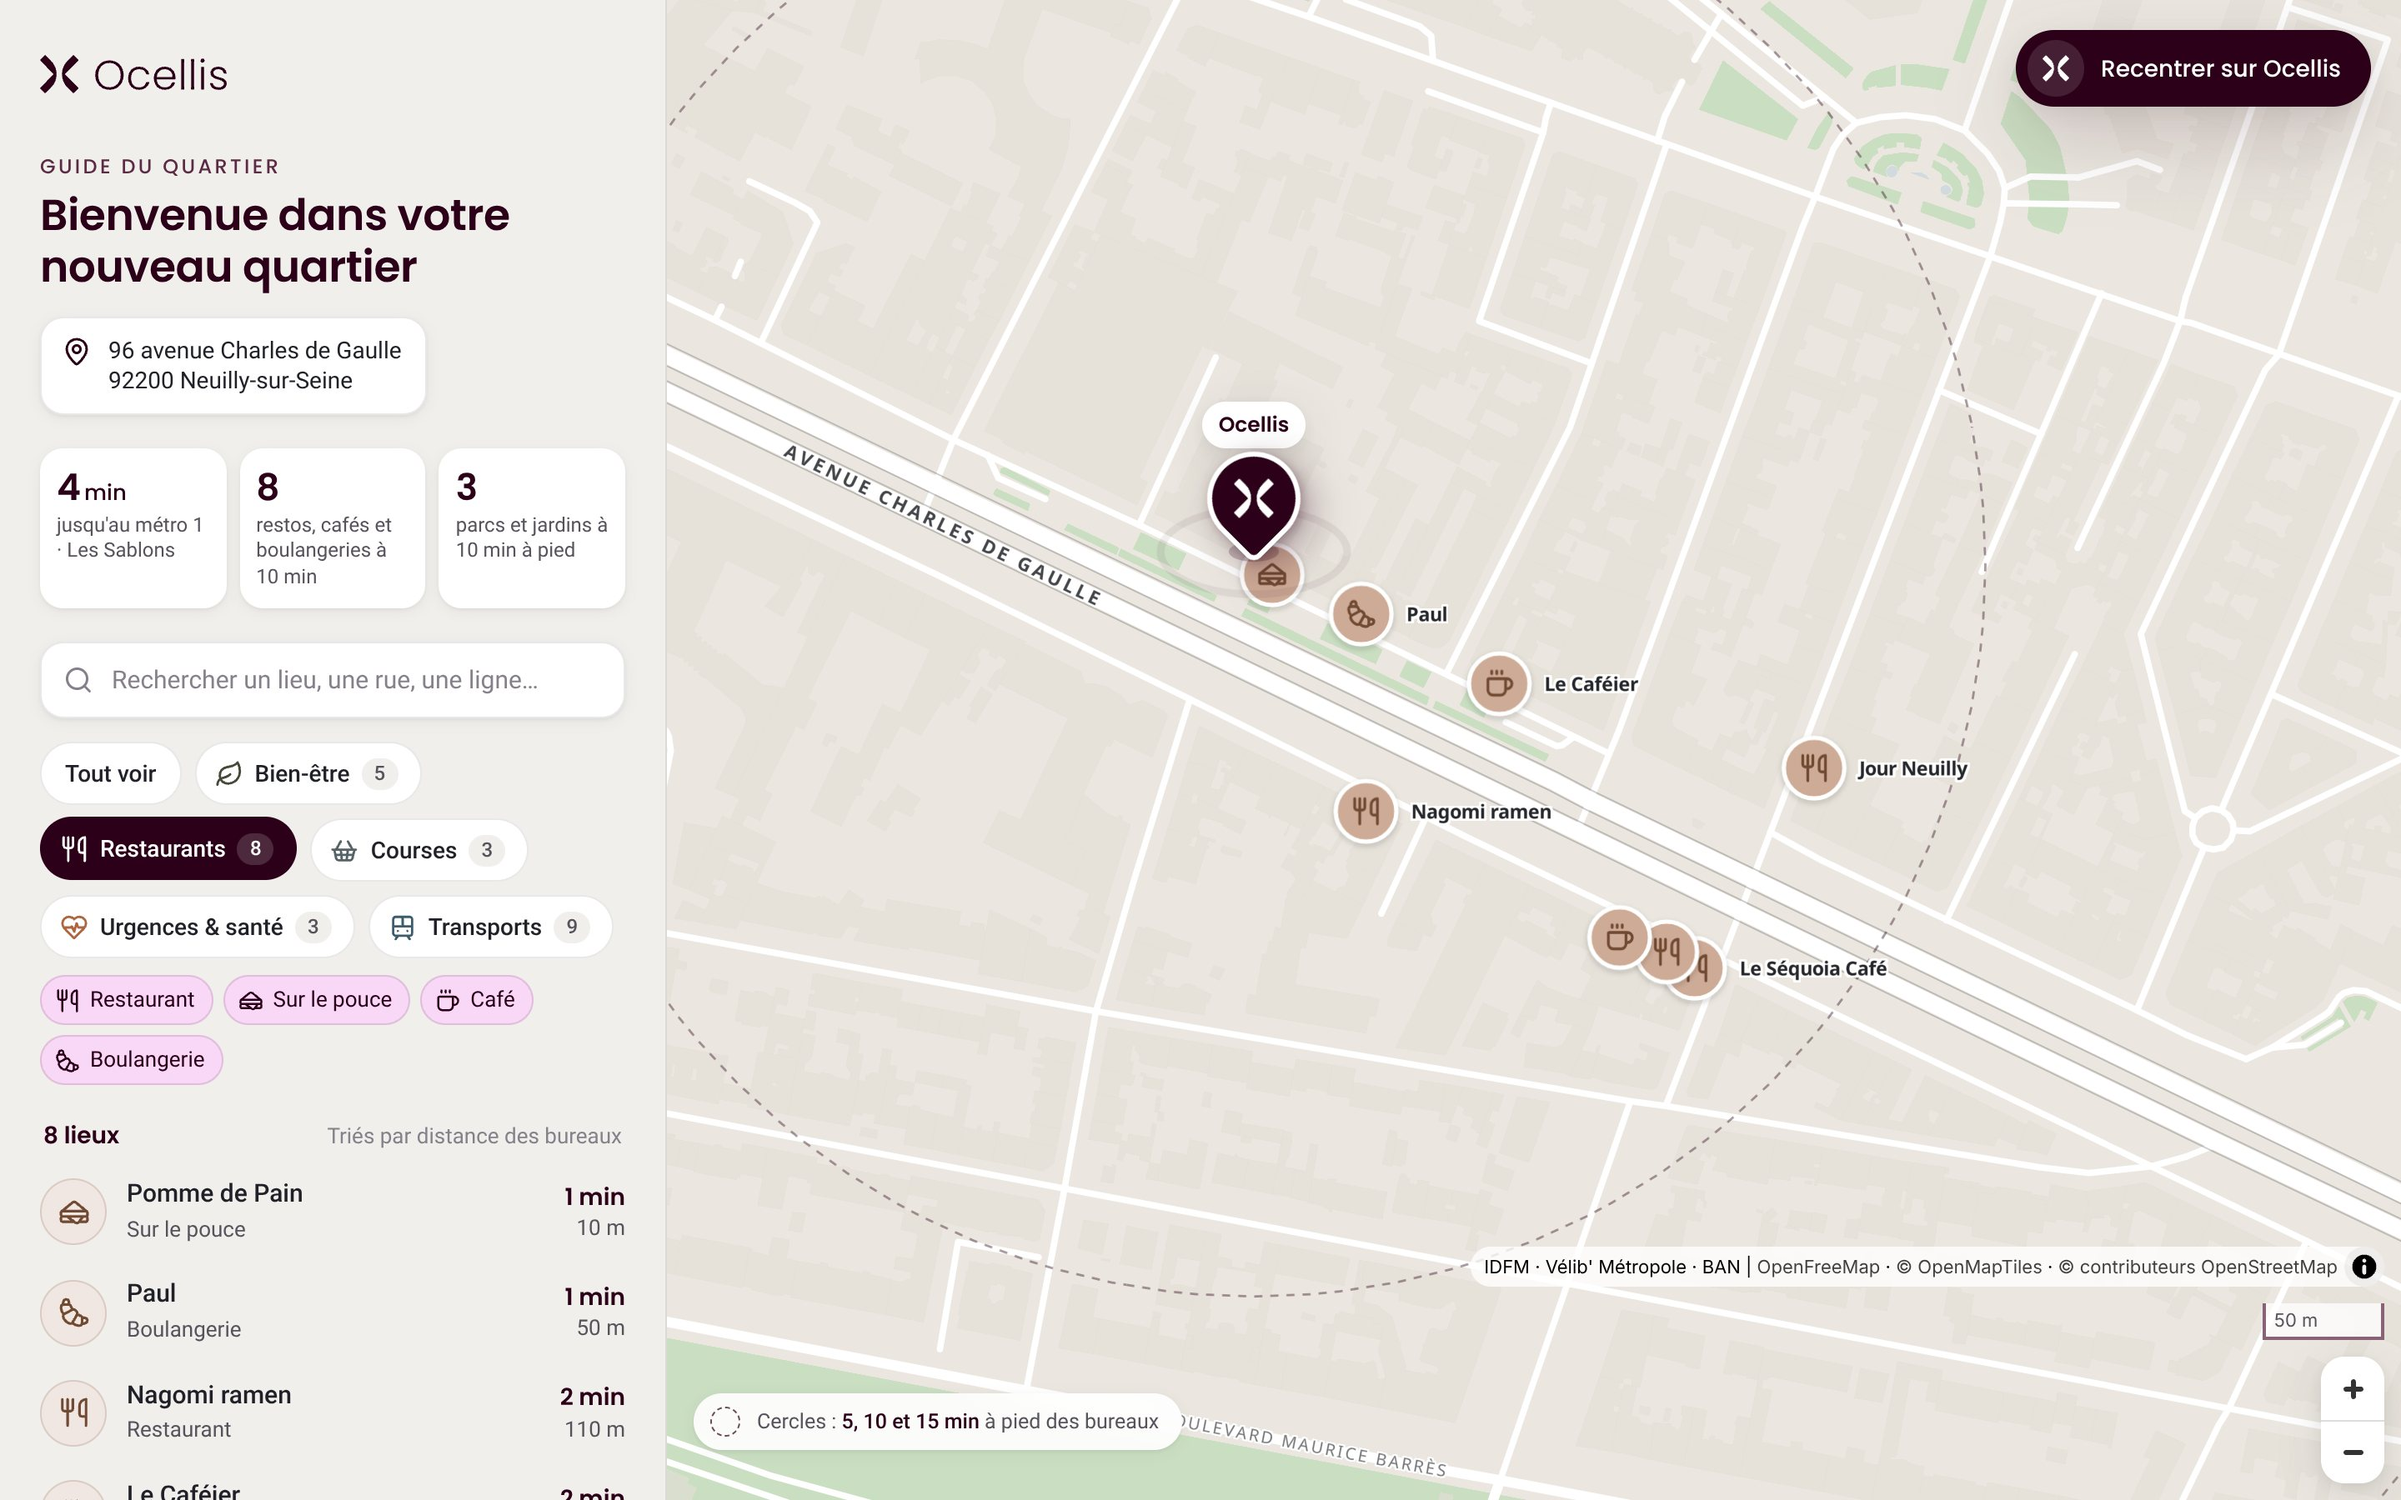
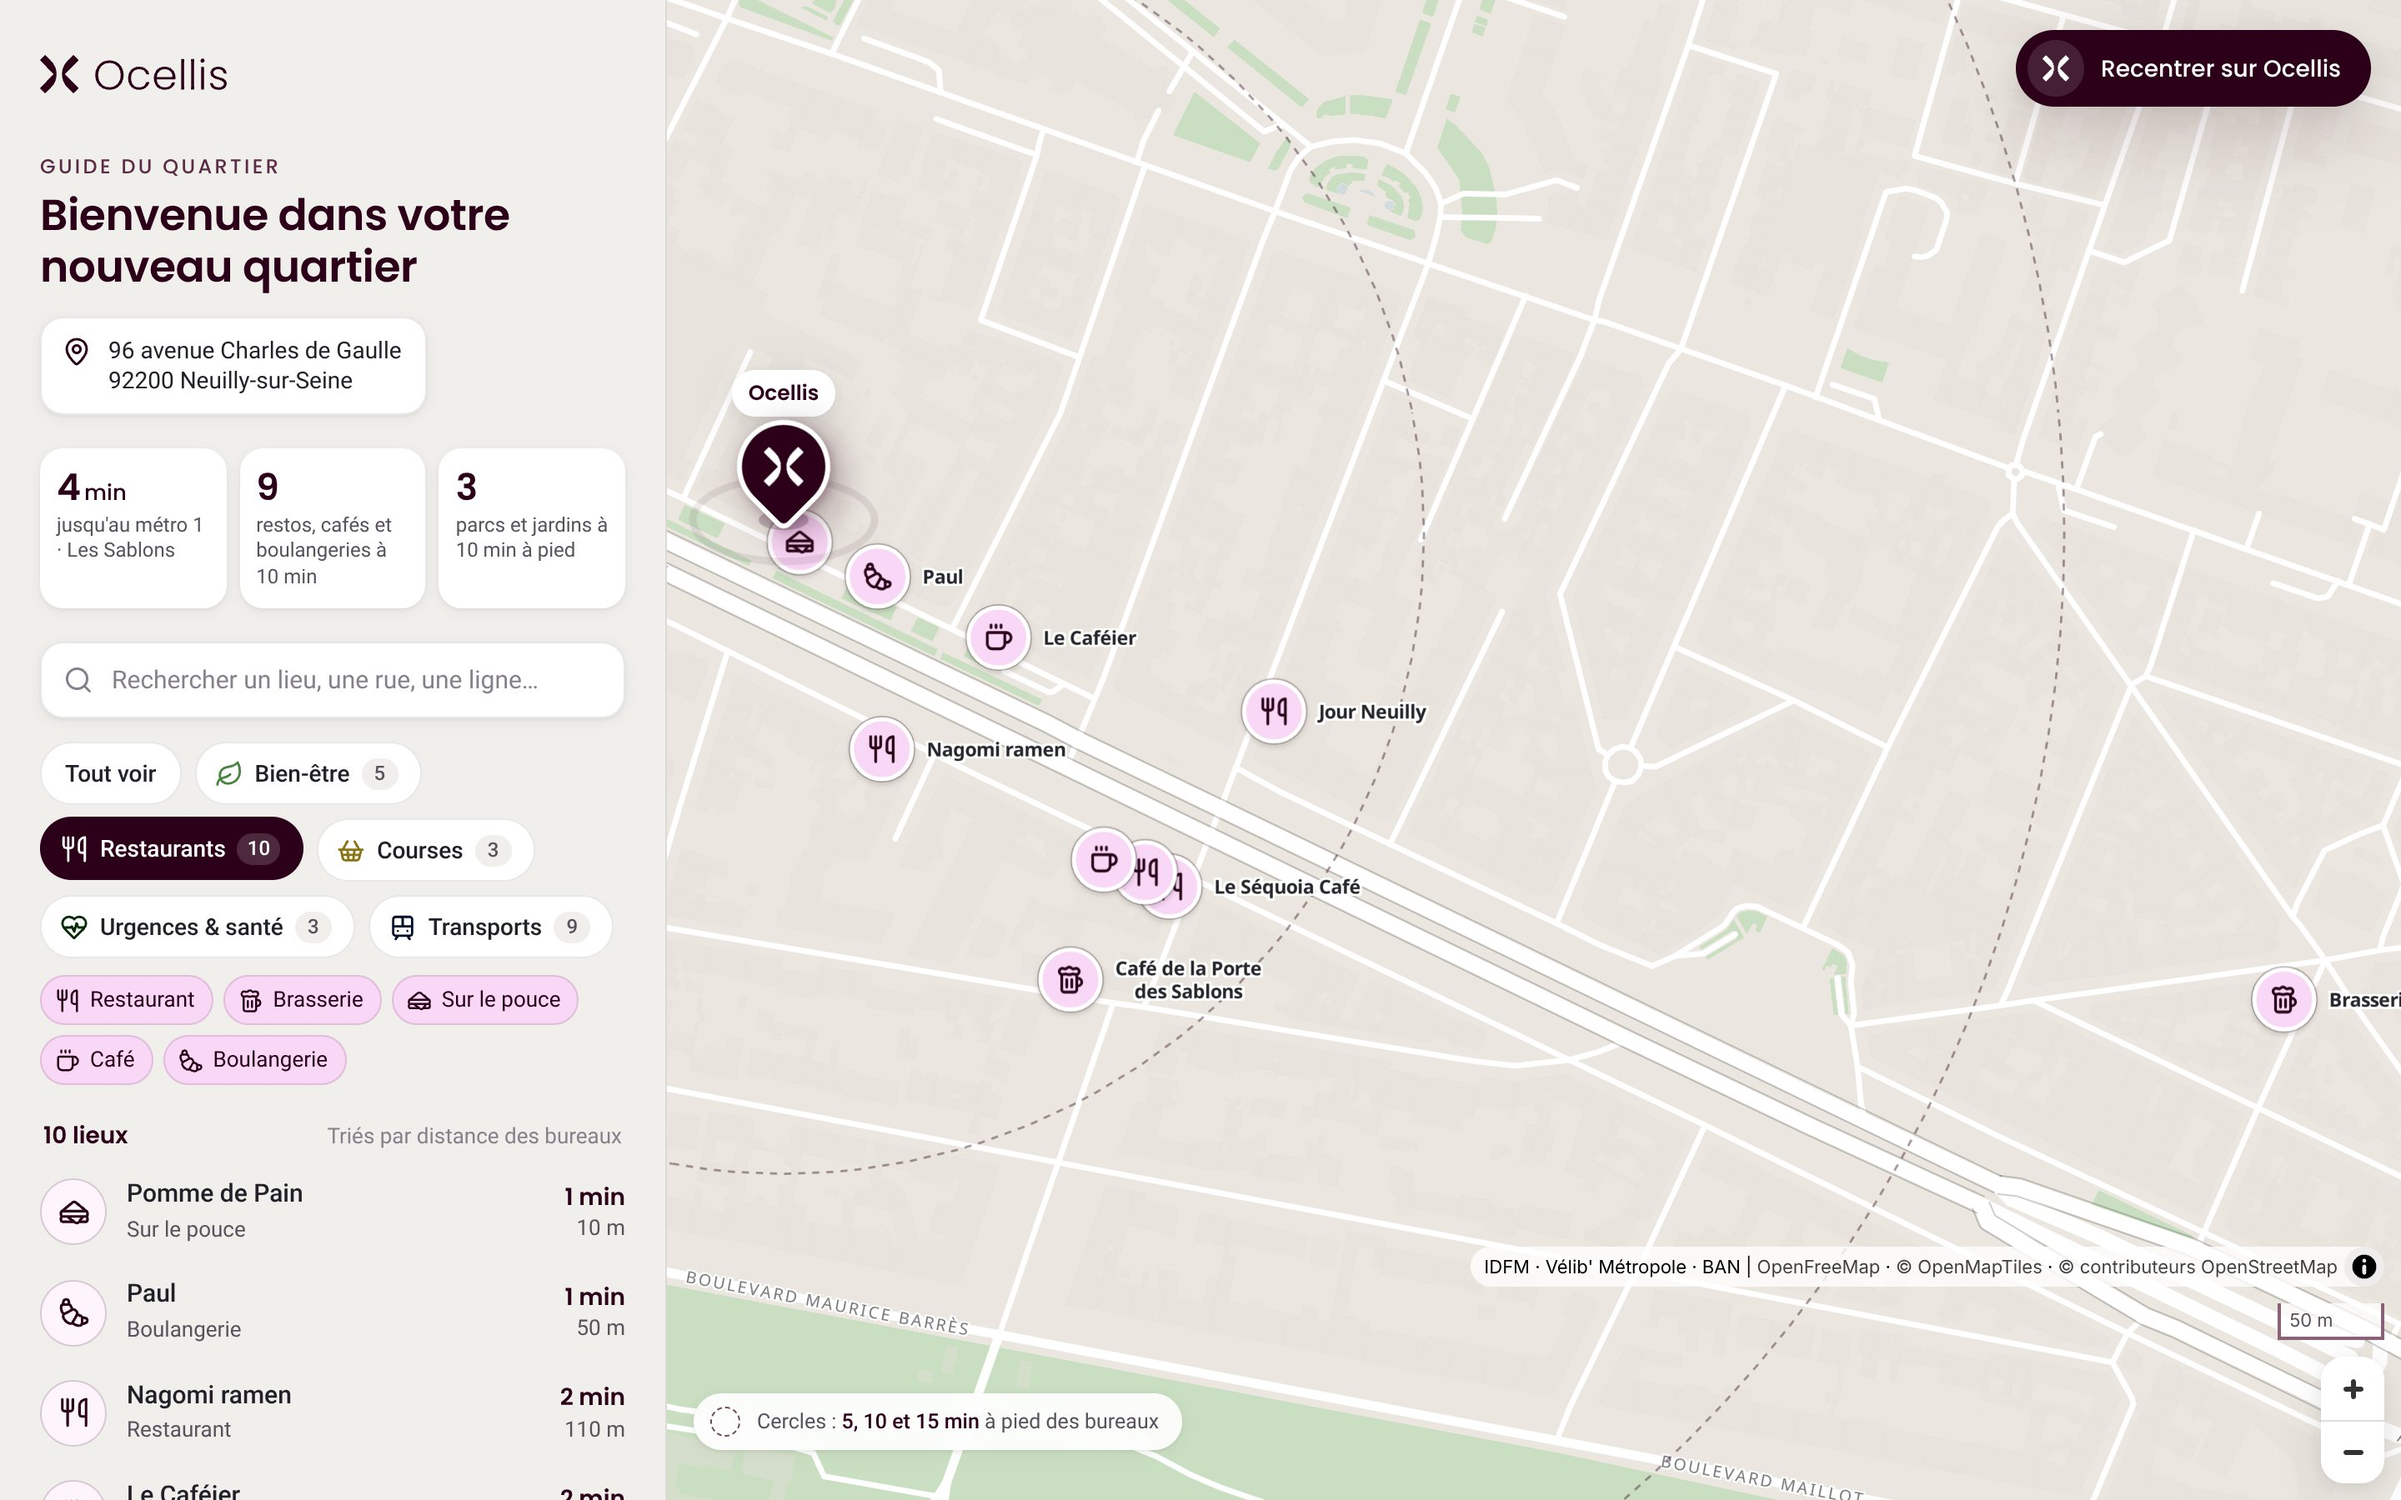
Pastilles de la carte aux couleurs de la charte Ocellis
Rose #F9D7F6 + prune (restaurants), jaune #F2E29C + bleu nuit (courses),
vert clair #B0D6AA + vert foncé (bien-être), vert foncé #032A02 + vert clair
(santé, façon croix de pharmacie), bleu nuit #010D2D + blanc (transports).
Filet fin autour des pastilles claires pour qu'elles se détachent du fond.
Couleurs reprises dans la liste, les filtres et les fiches. README et
captures mis à jour.

Claude-Session: https://claude.ai/code/session_01HHKWByJ1UGMeUP9sBrXz3t

diff --git a/assets/js/config.js b/assets/js/config.js
@@ -1,21 +1,24 @@
 /**
  * Catégories, types de lieux et pictogrammes.
- * Une seule couleur (l'aubergine Ocellis) pour toutes les catégories : on les distingue par le pictogramme.
- */
-/*
- * Une couleur par catégorie, tirée de la palette « Color combo no. 757 » :
- * crème #F0E7E2, rose sable #CEAB97, sauge #A1A58C, terracotta #AD6640, bleu ardoise #3D5C6E, gris bleu #BFC7C9.
- *  - color : fond de la pastille sur la carte ;
- *  - glyph : couleur du pictogramme sur la pastille (crème sur les teintes soutenues,
- *            même teinte assombrie sur les teintes claires, contraste ≥ 3,6:1) ;
- *  - ink   : couleur des pictogrammes de la liste et des filtres (lisible sur fond clair).
+ *
+ * Une couleur par catégorie, tirée de la charte graphique Ocellis (couleurs du site ocellis.fr),
+ * chaque teinte étant associée à sa couleur « partenaire » de la charte pour le pictogramme :
+ *  - rose #F9D7F6 + prune #2B041A, jaune #F2E29C + bleu nuit #010D2D,
+ *  - vert clair #B0D6AA + vert foncé #032A02 (et l'inverse pour la santé, façon croix de pharmacie),
+ *  - bleu nuit #010D2D + blanc Ocellis #F1EFEB.
+ * Champs :
+ *  - color : fond de la pastille ;
+ *  - glyph : pictogramme sur la pastille ;
+ *  - edge  : filet extérieur fin des pastilles claires, pour qu'elles se détachent du fond de carte ;
+ *  - ink   : pictogrammes de la liste et des filtres (variation foncée de la teinte, lisible sur fond clair).
+ * L'aubergine pleine reste réservée au marqueur Ocellis et aux interactions.
  */
 export const CATEGORIES = [
-  { id: 'bien-etre', label: 'Bien-être', short: 'Bien-être', icon: 'leaf', color: '#a1a58c', glyph: '#464838', ink: '#464838', blurb: 'Sport, piscine, parcs et jardins' },
-  { id: 'restaurants', label: 'Restaurants', short: 'Restos', icon: 'utensils', color: '#ceab97', glyph: '#714a33', ink: '#714a33', blurb: 'Déjeuners, cafés, boulangeries' },
-  { id: 'courses', label: 'Courses', short: 'Courses', icon: 'shopping-basket', color: '#bfc7c9', glyph: '#566366', ink: '#566366', blurb: 'Supermarchés et supérettes' },
-  { id: 'sante', label: 'Urgences & santé', short: 'Santé', icon: 'heart-pulse', color: '#ad6640', glyph: '#f0e7e2', ink: '#ad6640', blurb: 'Pharmacies et hôpital' },
-  { id: 'transports', label: 'Transports', short: 'Transports', icon: 'tram-front', color: '#3d5c6e', glyph: '#f0e7e2', ink: '#3d5c6e', blurb: "Métro, RER, bus, Vélib', parkings" },
+  { id: 'bien-etre', label: 'Bien-être', short: 'Bien-être', icon: 'leaf', color: '#b0d6aa', glyph: '#032a02', edge: 'rgba(3,42,2,0.32)', ink: '#498440', blurb: 'Sport, piscine, parcs et jardins' },
+  { id: 'restaurants', label: 'Restaurants', short: 'Restos', icon: 'utensils', color: '#f9d7f6', glyph: '#2b041a', edge: 'rgba(43,4,26,0.32)', ink: '#2b041a', blurb: 'Déjeuners, brasseries, cafés, boulangeries' },
+  { id: 'courses', label: 'Courses', short: 'Courses', icon: 'shopping-basket', color: '#f2e29c', glyph: '#010d2d', edge: 'rgba(1,13,45,0.32)', ink: '#897312', blurb: 'Supermarchés et supérettes' },
+  { id: 'sante', label: 'Urgences & santé', short: 'Santé', icon: 'heart-pulse', color: '#032a02', glyph: '#b0d6aa', ink: '#032a02', blurb: 'Pharmacies et hôpital' },
+  { id: 'transports', label: 'Transports', short: 'Transports', icon: 'tram-front', color: '#010d2d', glyph: '#f1efeb', ink: '#010d2d', blurb: "Métro, RER, bus, Vélib', parkings" },
 ];
 export const CATEGORY_COLOR = Object.fromEntries(CATEGORIES.map((c) => [c.id, c.color]));
 export const CATEGORY_STYLE = Object.fromEntries(CATEGORIES.map((c) => [c.id, c]));

diff --git a/assets/js/app.js b/assets/js/app.js
@@ -203,7 +203,7 @@ const markerId = (p) => `poi-${p.cat}-${typeIcon(p)}`;
  * Pastille de lieu : disque à la couleur de la catégorie, pictogramme contrasté, liseré blanc.
  * 40 px à l'écran (52 px quand le lieu est sélectionné ou survolé, avec un anneau aubergine).
  */
-function markerSvg(glyph, color, glyphColor, active) {
+function markerSvg(glyph, color, glyphColor, edge, active) {
   const size = active ? 128 : 96; // unités @2x, marge comprise pour l'ombre
   const c = size / 2;
   const r = active ? 46 : 36; // rayon du disque
@@ -216,6 +216,7 @@ function markerSvg(glyph, color, glyphColor, active) {
     </filter></defs>
     ${active ? `<circle cx="${c}" cy="${c}" r="${r + 9}" fill="none" stroke="${BRAND.prune}" stroke-width="4"/>` : ''}
     <circle cx="${c}" cy="${c}" r="${r}" fill="${color}" stroke="#ffffff" stroke-width="${active ? 6 : 5}" filter="url(#sh)"/>
+    ${edge && !active ? `<circle cx="${c}" cy="${c}" r="${r + 3.2}" fill="none" stroke="${edge}" stroke-width="1.4"/>` : ''}
     <g transform="translate(${t} ${t}) scale(${s})" fill="none" stroke="${glyphColor}" stroke-width="2.2" stroke-linecap="round" stroke-linejoin="round">${glyph}</g>
   </svg>`;
 }
@@ -248,7 +249,7 @@ async function registerIcons() {
       const id = `poi-${cat}-${name}${active ? '-active' : ''}`;
       if (map.hasImage(id)) return;
       const st = CATEGORY_STYLE[cat];
-      const img = await loadImage(markerSvg(glyph, st.color, st.glyph, active));
+      const img = await loadImage(markerSvg(glyph, st.color, st.glyph, st.edge, active));
       if (!map.hasImage(id)) map.addImage(id, img, { pixelRatio: DPR });
     });
   }));

diff --git a/README.md b/README.md
@@ -21,7 +21,7 @@ Elle aide les collaborateurs à repérer rapidement les restaurants, commerces, 
   - **Bien-être** (5) : une salle de sport, la piscine, deux jardins proches et la lisière du Bois de Boulogne (environ 400 m).
   - **Urgences & santé** (3) : les 2 pharmacies les plus proches, l'hôpital le plus proche, et un encart avec les numéros d'urgence (15, 18, 17, 112, 114, 3237).
   - **Transports** (9) : 2 stations de métro 1, la gare RER C/E, 2 arrêts de bus (lignes officielles), 2 stations Vélib' avec la **disponibilité en temps réel**, le parking et le parking vélos devant les bureaux. Les tracés de la ligne 1 et des RER C et E sont dessinés dans leurs couleurs officielles, adoucies.
-- **Une couleur par catégorie**, tirée de la palette « Color combo no. 757 » : rose sable `#CEAB97` pour les restaurants, gris bleu `#BFC7C9` pour les courses, sauge `#A1A58C` pour le bien-être, terracotta `#AD6640` pour la santé, bleu ardoise `#3D5C6E` pour les transports. Chaque lieu est une pastille de 40 px avec un **pictogramme** (jeu d'icônes Lucide) : crème `#F0E7E2` sur les teintes soutenues, même teinte assombrie sur les teintes claires. Son nom s'affiche à côté. Les filtres et la liste reprennent ces couleurs et servent de légende. L'aubergine reste réservée au marqueur Ocellis et aux interactions.
+- **Une couleur par catégorie, tirée de la charte Ocellis** (couleurs du site ocellis.fr) : rose `#F9D7F6` pour les restaurants, jaune `#F2E29C` pour les courses, vert clair `#B0D6AA` pour le bien-être, vert foncé `#032A02` pour la santé (comme une croix de pharmacie), bleu nuit `#010D2D` pour les transports. Chaque lieu est une pastille de 40 px avec un **pictogramme** (jeu d'icônes Lucide) dans la couleur partenaire de la charte : prune sur le rose, bleu nuit sur le jaune, vert foncé sur le vert clair, vert clair sur le vert foncé, blanc sur le bleu nuit. Les pastilles claires ont un fin filet pour se détacher du fond de carte. Le nom du lieu s'affiche à côté. Les filtres et la liste reprennent ces couleurs et servent de légende. L'aubergine reste réservée au marqueur Ocellis et aux interactions.
 - **Un fond de carte illustré et épuré**, façon plan de quartier : rues blanches et nettes, bâtiments très pâles visibles seulement de près, espaces verts doux, seuls les grands axes nommés. L'avenue Charles de Gaulle est soulignée d'un double filet.
 - **Cercles de temps de marche** à 5, 10 et 15 minutes autour des bureaux. Chaque lieu affiche son temps à pied estimé et sa distance.
 - **Une fiche par lieu** : type, adresse, temps à pied, lignes desservies, bouton **Itinéraire depuis Ocellis** (à pied), liens vers Google Maps (horaires et avis), OpenStreetMap, Citymapper et Plans.
